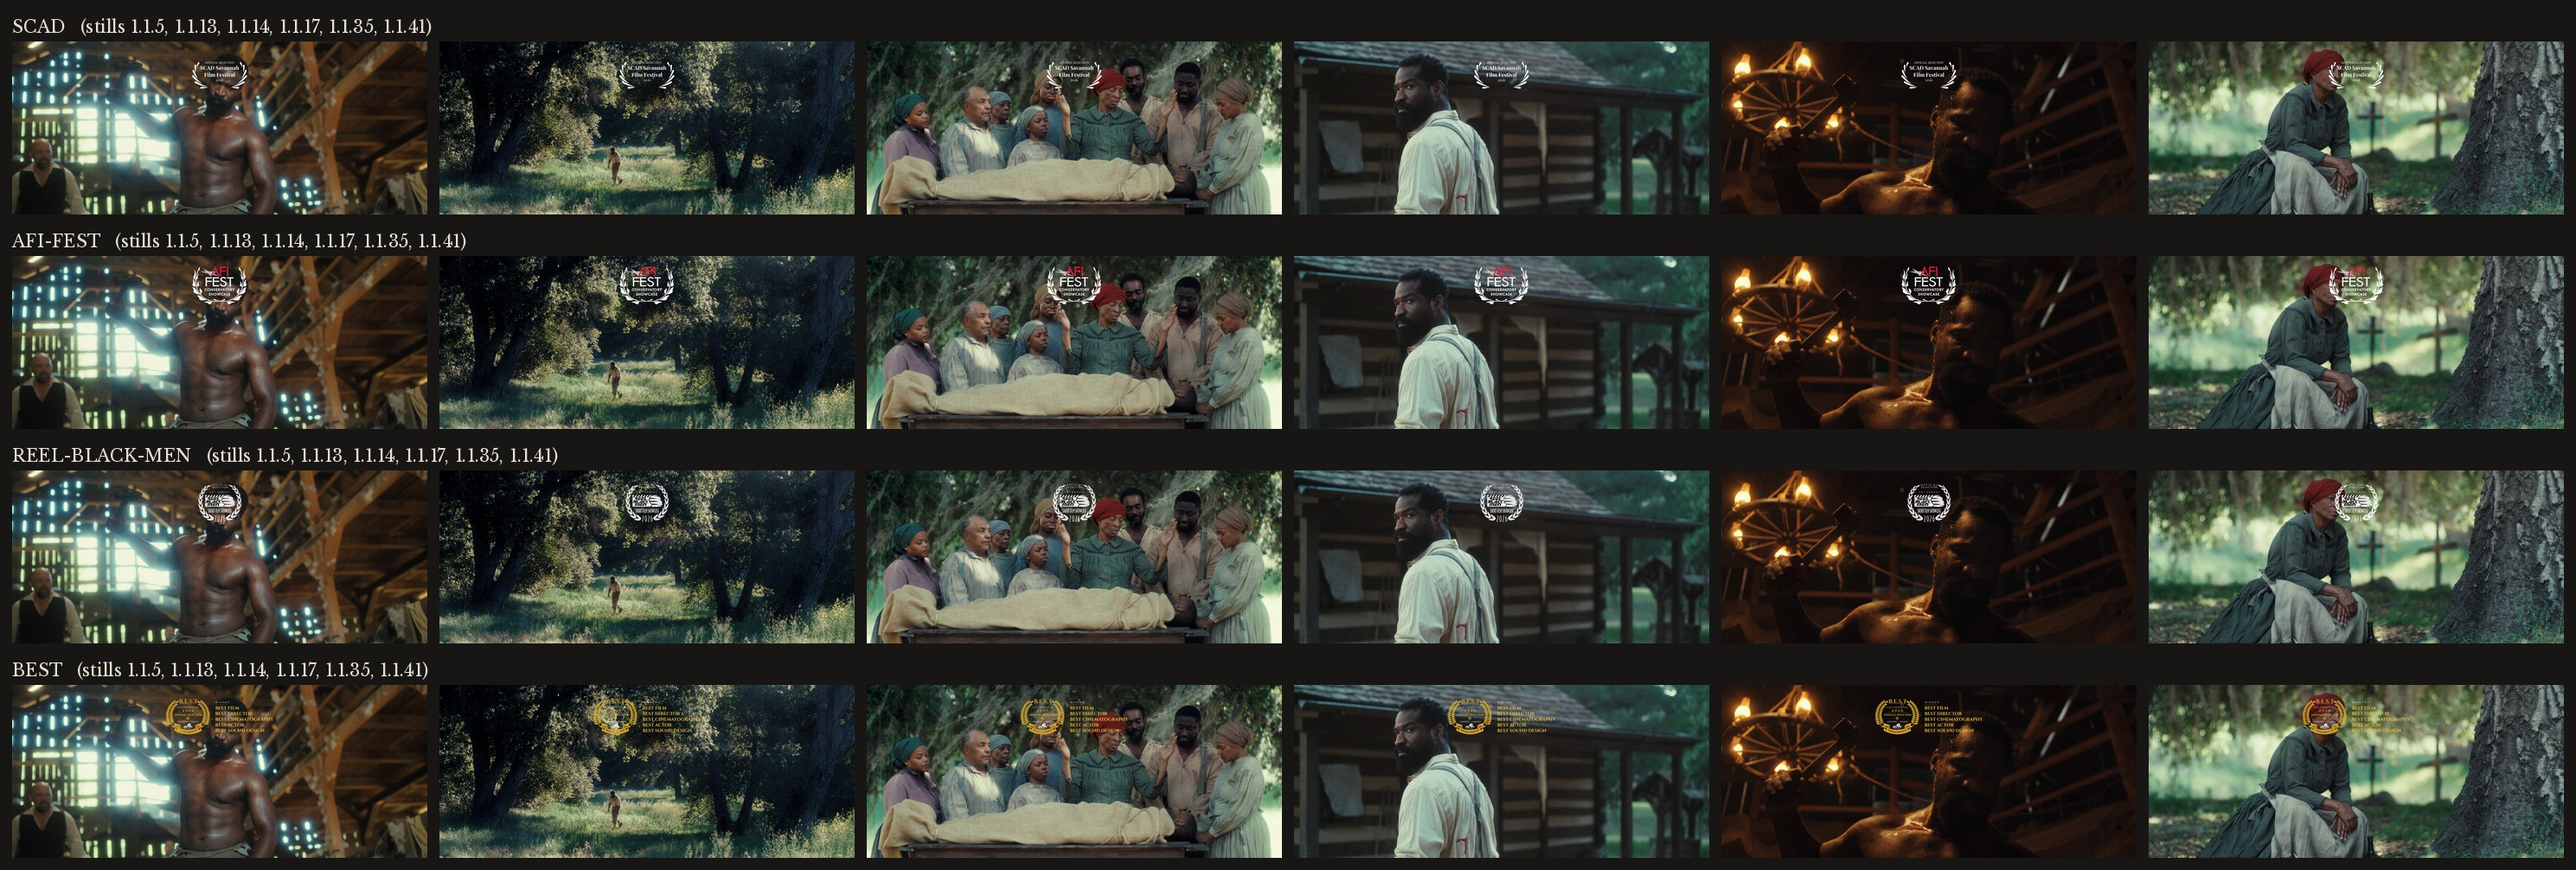
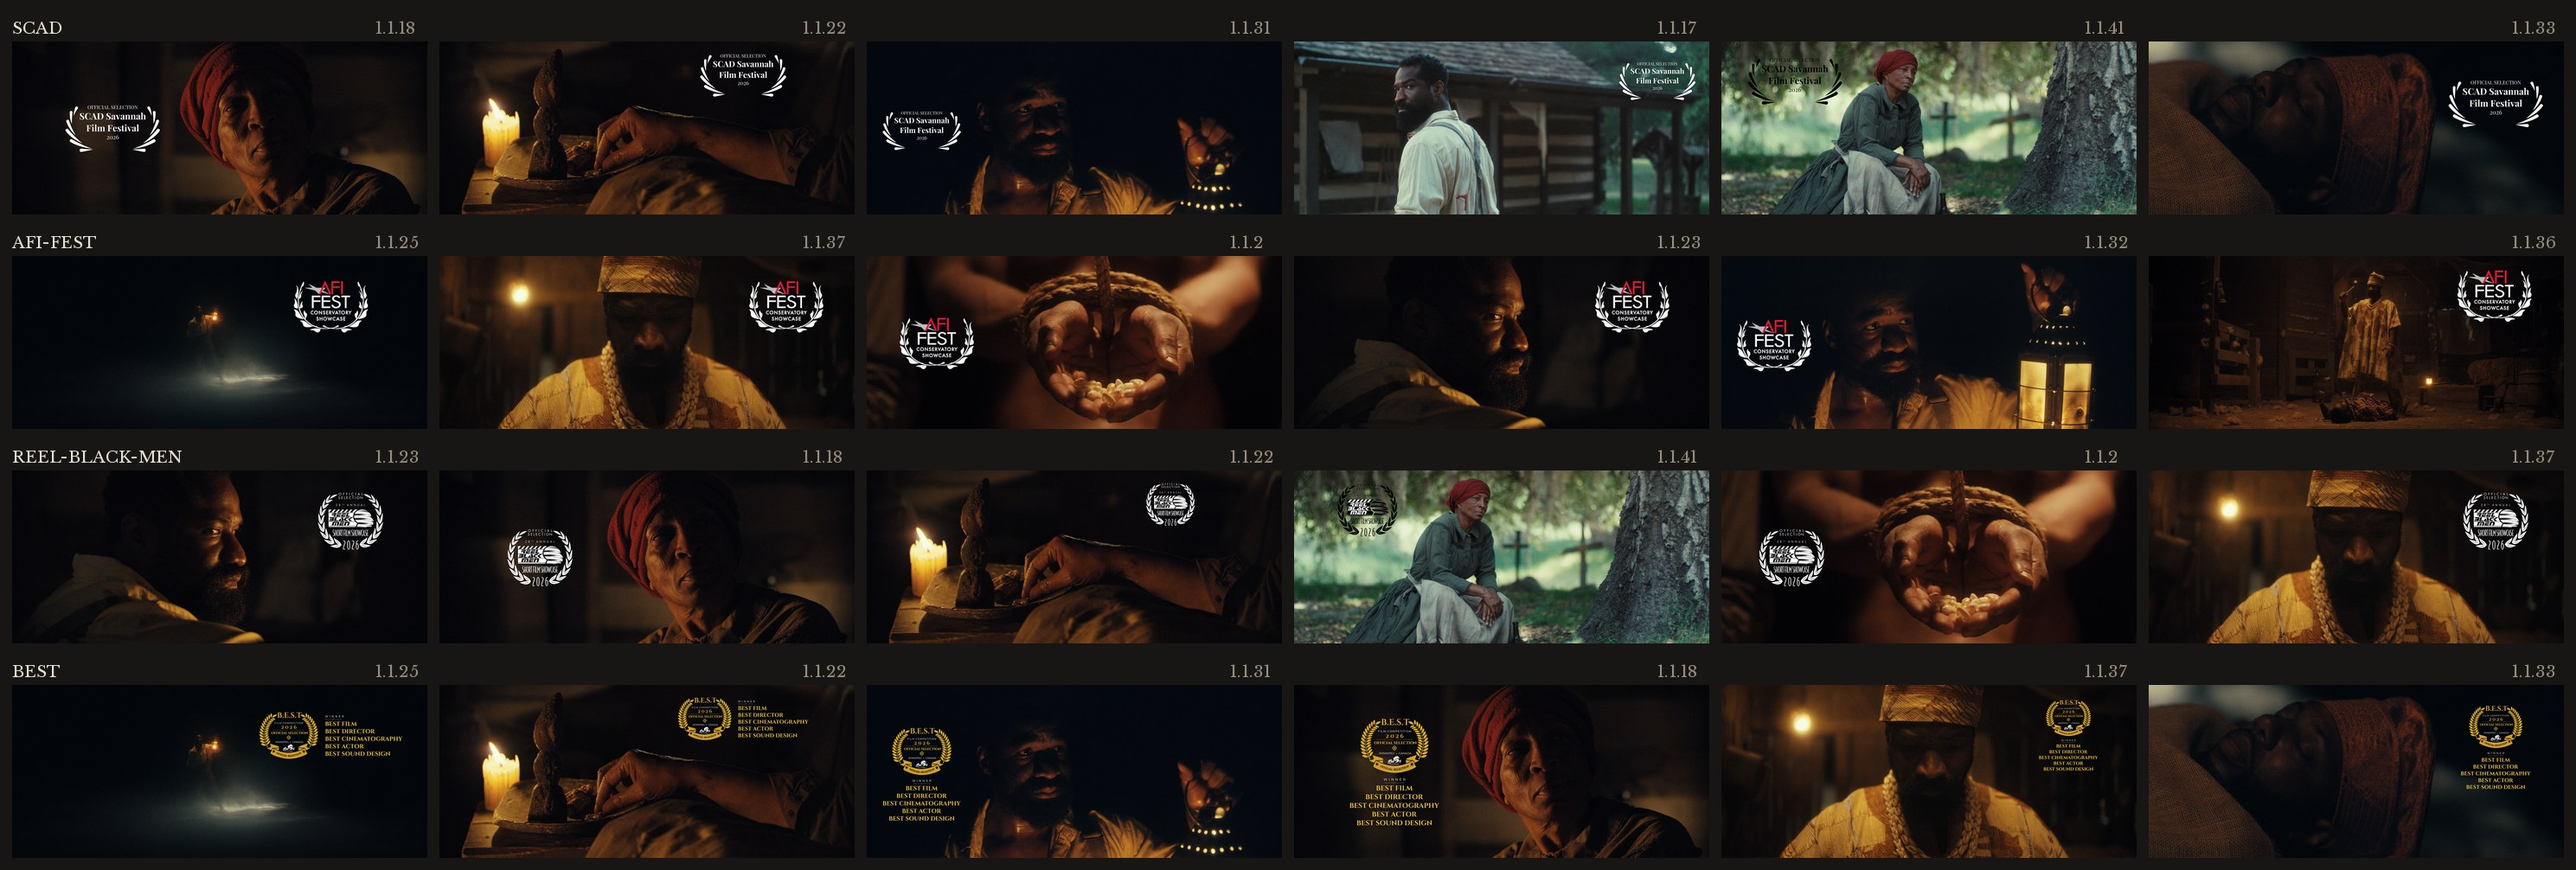
Laurel stills placed per frame in clean areas (stacked B.E.S.T. build for tall spaces); page-2 options v2 with title and photo locked and Luke's size limits enforced; handoff-163

diff --git a/tools/laurel-stills.py b/tools/laurel-stills.py
@@ -1,43 +1,110 @@
 #!/usr/bin/env python3
-"""Composite a festival laurel onto 2.39:1 frames from press/assets/STILLS.
+"""Festival laurels on 2.39:1 frames from press/assets/STILLS, placed by hand into each frame's clean area.
 
-Usage: venv/bin/python tools/laurel-stills.py [still numbers...]   (default: 5 13 14 17 35 41)
-Writes press/assets/derived/laurel-stills/<FEST>/KOM-<FEST>-still-1.1.N.jpg (1920x803) and a contact sheet.
-The laurel sits top-centre (6% down, ~22% of the frame height, like a festival's own social still);
-the light or dark version is chosen by the mean luminance under it (dark marks only above 140/255)."""
-import os, sys
-from PIL import Image, ImageDraw, ImageFont, ImageStat
+Each frame below has a box (x0, y0, x1, y1, px on the 1920x803 picture) drawn round its negative space,
+chosen by eye from a gridded sheet of the frame. The laurel, trimmed to its ink, is fitted inside the box
+(8% padding, capped at a share of the frame height) and centred in it. White or gold on dark frames, black
+where the box is light. White marks get a faint blurred shadow so leaves hold on textured ground.
+
+B.E.S.T. comes in two shapes: the wide winner laurel (wreath + WINNER + awards) for wide boxes, and a
+stacked build (wreath over the awards) for tall boxes.
+
+Usage: venv/bin/python tools/laurel-stills.py
+Writes press/assets/derived/laurel-stills/<FEST>/KOM-<FEST>-still-1.1.N.jpg (1920x803) and a contact sheet."""
+import os
+from PIL import Image, ImageDraw, ImageFont, ImageFilter
 D = "press/assets/derived/laurels"; OUT = "press/assets/derived/laurel-stills"
 STILL = lambda n: f"press/assets/STILLS/Still 2026-09-08 210640_1.1.{n}.png"
-TOP, BOT = 138, 941   # the picture rows inside the 1920x1080 letterboxed export
-def rgba(p): return Image.open(p).convert("RGBA")
-FESTS = {
-  "SCAD":           {"light": f"{D}/SCAD-2026-official-selection-white.png", "dark": f"{D}/SCAD-2026-official-selection-black.png", "h": 0.22},
-  "AFI-FEST":       {"light": f"{D}/AFI-FEST-conservatory-showcase-white-x4.png", "dark": f"{D}/AFI-FEST-conservatory-showcase-black-x4.png", "h": 0.22},
-  "REEL-BLACK-MEN": {"light": f"{D}/RBM-2026-official-selection-white.png", "dark": f"{D}/RBM-2026-official-selection-black.png", "h": 0.26},
-  "BEST":           {"light": f"{D}/BEST-2026-winner_gold.png", "dark": f"{D}/BEST-2026-winner_black.png", "h": 0.25},
+TOP, BOT = 138, 941
+
+def trim(p):
+    im = Image.open(p).convert("RGBA"); return im.crop(im.split()[-1].getbbox())
+
+def stacked(p):
+    """Wreath (ink columns up to 1819) over the award text (from 2014); every text line centred under it."""
+    import numpy as np
+    im = Image.open(p).convert("RGBA")
+    wreath = im.crop((0, 0, 1900, im.height)); wreath = wreath.crop(wreath.split()[-1].getbbox())
+    text = im.crop((1950, 0, im.width, im.height)); text = text.crop(text.split()[-1].getbbox())
+    rows = np.array(text.split()[-1]).max(axis=1) > 0; lines = []; start = None
+    for y, on in enumerate(list(rows) + [False]):
+        if on and start is None: start = y
+        if not on and start is not None: lines.append((start, y)); start = None
+    parts = []
+    for a, b in lines:
+        ln = text.crop((0, a, text.width, b)); ln = ln.crop(ln.split()[-1].getbbox()); parts.append((a, ln))
+    W = max(wreath.width, max(ln.width for _, ln in parts)); gap = int(wreath.height * 0.10)
+    H = wreath.height + gap + (lines[-1][1] - lines[0][0])
+    out = Image.new("RGBA", (W, H), (0, 0, 0, 0)); out.paste(wreath, ((W - wreath.width) // 2, 0))
+    for a, ln in parts: out.paste(ln, ((W - ln.width) // 2, wreath.height + gap + a - lines[0][0]))
+    return out
+
+L = {
+  "SCAD":  {"light": trim(f"{D}/SCAD-2026-official-selection-white.png"), "dark": trim(f"{D}/SCAD-2026-official-selection-black.png")},
+  "AFI-FEST": {"light": trim(f"{D}/AFI-FEST-conservatory-showcase-white-x4.png"), "dark": trim(f"{D}/AFI-FEST-conservatory-showcase-black-x4.png")},
+  "REEL-BLACK-MEN": {"light": trim(f"{D}/RBM-2026-official-selection-white.png"), "dark": trim(f"{D}/RBM-2026-official-selection-black.png")},
+  "BEST-wide": {"light": trim(f"{D}/BEST-2026-winner_gold.png"), "dark": trim(f"{D}/BEST-2026-winner_black.png")},
+  "BEST-stack": {"light": stacked(f"{D}/BEST-2026-winner_gold.png"), "dark": stacked(f"{D}/BEST-2026-winner_black.png")},
 }
-def main(stills):
+# Clean areas, by eye (x0, y0, x1, y1) on the 1920x803 picture, and what is there.
+BOX = {
+  2:  ((50, 150, 600, 660), "left third: the dark beside the bound hands"),
+  17: ((1470, 40, 1890, 330), "top right: soft tree bokeh past the cabin roof"),
+  18: ((70, 110, 860, 700), "left half: the dark cabin wall behind the Elder"),
+  22: ((960, 40, 1850, 275), "top right: dark above the hand and the shrine"),
+  23: ((1240, 40, 1890, 430), "top right: the dark wall past Mace's face"),
+  25: ((1080, 60, 1870, 410), "upper right: night, away from the lantern"),
+  31: ((40, 70, 470, 760), "left quarter: black beside the face"),
+  32: ((40, 70, 450, 760), "left quarter: black beside the face"),
+  33: ((1330, 60, 1880, 520), "right: the dark blue past the head wrap"),
+  36: ((1320, 40, 1880, 330), "top right: the dark barn wall"),
+  37: ((1330, 40, 1880, 430), "top right: dark beyond the head wrap"),
+  41: ((40, 40, 640, 330), "top left: pale leaf bokeh above the Elder (black laurel)"),
+}
+DARK_ON = {41}           # boxes too light for white marks
+PLAN = {
+  "SCAD":           [(18, "SCAD"), (22, "SCAD"), (31, "SCAD"), (17, "SCAD"), (41, "SCAD"), (33, "SCAD")],
+  "AFI-FEST":       [(25, "AFI-FEST"), (37, "AFI-FEST"), (2, "AFI-FEST"), (23, "AFI-FEST"), (32, "AFI-FEST"), (36, "AFI-FEST")],
+  "REEL-BLACK-MEN": [(23, "REEL-BLACK-MEN"), (18, "REEL-BLACK-MEN"), (22, "REEL-BLACK-MEN"), (41, "REEL-BLACK-MEN"), (2, "REEL-BLACK-MEN"), (37, "REEL-BLACK-MEN")],
+  "BEST":           [(25, "BEST-wide"), (22, "BEST-wide"), (31, "BEST-stack"), (18, "BEST-stack"), (37, "BEST-stack"), (33, "BEST-stack")],
+}
+MAXH = {"SCAD": 0.27, "AFI-FEST": 0.30, "REEL-BLACK-MEN": 0.33, "BEST-wide": 0.36, "BEST-stack": 0.62}
+
+def place(fr, lau, box, maxh, light):
+    x0, y0, x1, y1 = box; bw, bh = x1 - x0, y1 - y0; pw, ph = bw * 0.84, bh * 0.84
+    s = min(pw / lau.width, ph / lau.height, maxh * fr.height / lau.height)
+    w, h = int(lau.width * s), int(lau.height * s); l = lau.resize((w, h), Image.LANCZOS)
+    x, y = x0 + (bw - w) // 2, y0 + (bh - h) // 2
+    base = fr.convert("RGBA")
+    if light:
+        sh = Image.new("RGBA", fr.size, (0, 0, 0, 0)); a = l.split()[-1].point(lambda v: int(v * 0.45))
+        sh.paste(Image.new("RGBA", (w, h), (0, 0, 0, 255)), (x, y + max(2, h // 120)), a)
+        base = Image.alpha_composite(base, sh.filter(ImageFilter.GaussianBlur(max(3, h // 60))))
+    layer = Image.new("RGBA", fr.size, (0, 0, 0, 0)); layer.paste(l, (x, y))
+    return Image.alpha_composite(base, layer).convert("RGB"), (x, y, w, h)
+
+def main():
     sheets = {}
-    for fest, cfg in FESTS.items():
-        os.makedirs(f"{OUT}/{fest}", exist_ok=True); tiles = []
-        for n in stills:
-            fr = Image.open(STILL(n)).convert("RGB"); fr = fr.crop((0, TOP, fr.width, BOT)); W, H = fr.size
-            lh = int(H * cfg["h"]); probe = rgba(cfg["light"]); lw = int(probe.width * lh / probe.height)
-            x, y = (W - lw) // 2, int(H * 0.06); gx, gy = int(lw * .08), int(lh * .08)
-            lum = ImageStat.Stat(fr.crop((max(0, x-gx), max(0, y-gy), min(W, x+lw+gx), min(H, y+lh+gy))).convert("L")).mean[0]
-            lau = rgba(cfg["dark" if lum > 140 else "light"]); lw = int(lau.width * lh / lau.height); x = (W - lw) // 2
-            layer = Image.new("RGBA", fr.size, (0, 0, 0, 0)); layer.paste(lau.resize((lw, lh), Image.LANCZOS), (x, y))
-            out = Image.alpha_composite(fr.convert("RGBA"), layer).convert("RGB")
-            out.save(f"{OUT}/{fest}/KOM-{fest}-still-1.1.{n}.jpg", quality=92, subsampling=0); tiles.append(out)
-            print(fest, n, f"lum {lum:.0f}", "dark" if lum > 140 else "light", f"{lw}x{lh}")
+    for fest, items in PLAN.items():
+        os.makedirs(f"{OUT}/{fest}", exist_ok=True)
+        for old in os.listdir(f"{OUT}/{fest}"): os.remove(f"{OUT}/{fest}/{old}")
+        tiles = []
+        for n, key in items:
+            fr = Image.open(STILL(n)).convert("RGB").crop((0, TOP, 1920, BOT))
+            light = n not in DARK_ON
+            out, geo = place(fr, L[key]["light" if light else "dark"], BOX[n][0], MAXH[key], light)
+            out.save(f"{OUT}/{fest}/KOM-{fest}-still-1.1.{n}.jpg", quality=92, subsampling=0)
+            tiles.append((n, out)); print(fest, f"1.1.{n}", key, "light" if light else "dark", geo, "-", BOX[n][1])
         sheets[fest] = tiles
-    tw = 480; th = int(tw * 803 / 1920); pad = 14; lab = 34; n = len(stills)
-    sheet = Image.new("RGB", (n*tw + (n+1)*pad, 4*(th+lab) + 5*pad), (24, 22, 20)); dr = ImageDraw.Draw(sheet)
-    font = ImageFont.truetype("press/assets/derived/fonts/libre-baskerville/LibreBaskerville-Regular.ttf", 20)
+    tw = 480; th = int(tw * 803 / 1920); pad = 14; lab = 34
+    sheet = Image.new("RGB", (6 * tw + 7 * pad, 4 * (th + lab) + 5 * pad), (24, 22, 20)); dr = ImageDraw.Draw(sheet)
+    font = ImageFont.truetype("press/assets/derived/fonts/libre-baskerville/LibreBaskerville-Regular.ttf", 19)
     for r, (fest, tiles) in enumerate(sheets.items()):
-        y0 = pad + r*(th+lab+pad); dr.text((pad, y0 + 4), f"{fest}   (stills 1.1.{', 1.1.'.join(map(str, stills))})", fill=(230, 224, 210), font=font)
-        for c, t in enumerate(tiles): sheet.paste(t.resize((tw, th), Image.LANCZOS), (pad + c*(tw+pad), y0 + lab))
+        y0 = pad + r * (th + lab + pad); dr.text((pad, y0 + 6), fest, fill=(230, 224, 210), font=font)
+        for c, (n, t) in enumerate(tiles):
+            x = pad + c * (tw + pad); sheet.paste(t.resize((tw, th), Image.LANCZOS), (x, y0 + lab))
+            dr.text((x + tw - 60, y0 + 6), f"1.1.{n}", fill=(150, 140, 125), font=font)
     sheet.save(f"{OUT}/contact-sheet-laurel-stills.jpg", quality=88)
+
 if __name__ == "__main__":
-    main([int(a) for a in sys.argv[1:]] or [5, 13, 14, 17, 35, 41])
+    main()

diff --git a/tools/laurel-page-options.py b/tools/laurel-page-options.py
@@ -1,0 +1,63 @@
+#!/usr/bin/env python3
+"""Mock up page-2 laurel arrangements with the title, rule, photo and label locked where they are in Canva (2026-10-11).
+Usage: venv/bin/python tools/laurel-page-options.py OUTDIR. Prints each laurel ink box (x, y, w, h px on the 1728x2304 page)."""
+import sys
+from PIL import Image, ImageDraw, ImageFont
+OUT = sys.argv[1]; D = "press/assets/derived/laurels"
+W, H = 1728, 2304; G = (11, 8, 6); F = "press/assets/derived/fonts/libre-baskerville/LibreBaskerville-Regular.ttf"
+def trim(p): im = Image.open(p).convert("RGBA"); return im.crop(im.split()[-1].getbbox())
+S = {k: trim(f"{D}/{f}") for k, f in [("ABFF", "ABFF-2026-official-selection-white.png"), ("MVAAFF", "MVAAFF-2026-official-selection-white.png"),
+     ("SCAD", "SCAD-2026-official-selection-white.png"), ("AFI", "AFI-FEST-conservatory-showcase-white-x4.png"), ("RBM", "RBM-2026-official-selection-white.png")]}
+WIN = trim(f"{D}/BEST-2026-winner_gold.png")
+MIN_H = 187; MAX_WIN = 1306
+still = Image.open(f"{D}/still-1.1.13-feather22.jpg").convert("RGB")
+still = still.resize((int(still.width * 860 / still.height), 860), Image.LANCZOS); x0 = (still.width - W) // 2; still = still.crop((x0, 0, x0 + W, 860))
+def tracked(dr, t, y, size, span, col):
+    font = ImageFont.truetype(F, size); adv = span / len(t); x = (W - span) / 2 + adv / 2
+    for ch in t: w = dr.textlength(ch, font=font); dr.text((x - w / 2, y), ch, fill=col, font=font); x += adv
+def base():
+    img = Image.new("RGBA", (W, H), G + (255,)); dr = ImageDraw.Draw(img)
+    tracked(dr, "AWARDS & SELECTIONS", 249, 53, 1460, (236, 230, 216)); dr.line([(706, 339), (1021, 339)], fill=(140, 120, 80), width=2)
+    img.paste(still, (0, 429)); tracked(dr, "KILLER OF MEN", 1314, 22, 300, (150, 140, 125)); return img
+def sized(it):
+    if it[0] == "WIN": im = WIN; w = it[2]; return im, int(w), int(im.height * w / im.width)
+    im = S[it[0]]; h = it[1]; return im, int(im.width * h / im.height), int(h)
+def render(rows, row_gap):
+    built = []
+    for items, gap in rows:
+        r = [sized(it) for it in items]
+        for im, w, h in r:
+            assert im is WIN or h >= MIN_H; assert im is not WIN or w < MAX_WIN
+        built.append((r, gap, sum(w for _, w, _ in r) + gap * (len(r) - 1), max(h for _, _, h in r)))
+    total = sum(b[3] for b in built) + row_gap * (len(built) - 1)
+    top, bottom = 1338, 2304 - 150
+    assert total <= bottom - top - 40, f"group too tall: {total}"
+    y = top + (bottom - top - total) // 2 + 10; img = base(); geo = []
+    for r, gap, rw, rh in built:
+        assert rw <= W - 80, f"row too wide: {rw}"
+        x = (W - rw) / 2
+        for im, w, h in r:
+            yy = int(y + (rh - h) / 2); lay = Image.new("RGBA", (W, H), (0, 0, 0, 0)); lay.paste(im.resize((w, h), Image.LANCZOS), (int(x), yy)); img.alpha_composite(lay)
+            geo.append((int(x), yy, w, h)); x += w + gap
+        y += rh + row_gap
+    return img.convert("RGB"), total, geo
+FIVE = lambda h, g: ([("ABFF", h), ("MVAAFF", h), ("SCAD", h), ("AFI", h), ("RBM", h * 1.08)], g)
+OPTS = {
+ "1  five across, winner below": ([FIVE(187, 28), ([("WIN", None, 980)], 0)], 70),
+ "2  five across, larger winner below": ([FIVE(187, 28), ([("WIN", None, 1220)], 0)], 60),
+ "3  winner first, five across below": ([([("WIN", None, 1120)], 0), FIVE(187, 28)], 70),
+ "4  three over two, winner below": ([([("ABFF", 200), ("MVAAFF", 200), ("SCAD", 200)], 70), ([("AFI", 200), ("RBM", 216)], 80), ([("WIN", None, 800)], 0)], 36),
+ "5  winner first, then three over two": ([([("WIN", None, 860)], 0), ([("ABFF", 190), ("MVAAFF", 190), ("SCAD", 190)], 70), ([("AFI", 190), ("RBM", 205)], 80)], 36),
+ "6  three across; AFI, winner, Reel Black Men": ([([("ABFF", 220), ("MVAAFF", 220), ("SCAD", 220)], 80), ([("AFI", 200), ("WIN", None, 800), ("RBM", 216)], 60)], 70),
+ "7  three, the winner, two": ([([("ABFF", 187), ("MVAAFF", 187), ("SCAD", 187)], 70), ([("WIN", None, 900)], 0), ([("AFI", 187), ("RBM", 202)], 80)], 36),
+}
+tiles = []
+for name, (rows, gap) in OPTS.items():
+    img, total, geo = render(rows, gap); k = name.split()[0]; img.save(f"{OUT}/option-{k}.png", optimize=True); tiles.append((name, img)); print(name, "| group", total, "| ink boxes", geo)
+tw, th, pad, lab, cols = 560, 747, 24, 44, 4
+sheet = Image.new("RGB", (cols * tw + (cols + 1) * pad, 2 * (th + lab) + 3 * pad), (30, 28, 26)); dr = ImageDraw.Draw(sheet); font = ImageFont.truetype(F, 19)
+for i, (name, img) in enumerate(tiles):
+    r, c = divmod(i, cols); x = pad + c * (tw + pad); y = pad + r * (th + lab + pad)
+    dr.text((x, y + 8), name, fill=(230, 224, 210), font=font); sheet.paste(img.resize((tw, th), Image.LANCZOS), (x, y + lab))
+dr.text((pad + 3 * (tw + pad), pad + (th + lab + pad) + 60), "Title, rule, photo and label stay where\nthey are in Canva now. Only the laurels move.\n\nSelections: never smaller than option D's\nsmall ones. Winner: always under F's.\nAll five selections matched by height.", fill=(200, 194, 180), font=font, spacing=8)
+sheet.save(f"{OUT}/contact-sheet-options.jpg", quality=88)

diff --git a/handoffs/handoff-163-epk.md b/handoffs/handoff-163-epk.md
@@ -1,0 +1,19 @@
+# handoff-163-epk — Laurel stills redone with per-frame placement; page-2 options v2 with title and photo locked
+
+## Recap (newest first)
+- Model switched to Opus 5.5 by Luke for this turn. His notes: page-2 options must keep the title and photo where they are and move only the laurels; selections no smaller than option D's small ones, winner never as big as F's. The laurel stills need real placement in clean areas of each frame.
+- **Laurel stills, redone.** `tools/laurel-stills.py` now carries a hand-drawn clean-area box for each of 12 frames, chosen from gridded sheets of 32 candidates (box and reason listed in the tool). Laurels are trimmed to their ink, fitted to the box, white or gold with a faint shadow, black on the one light frame (1.1.41, leaf bokeh). B.E.S.T. uses the wide winner laurel in wide boxes and a new stacked build (wreath over the awards, every line centred) in tall ones. Frames: SCAD 18, 22, 31, 17, 41, 33 · AFI Fest 25, 37, 2, 23, 32, 36 · Reel Black Men 23, 18, 22, 41, 2, 37 · B.E.S.T. 25, 22 (wide), 31, 18, 37, 33 (stacked). The earlier top-centre set is replaced on the Drive (`00 PRESS/LAURELS/Stills with laurels/`, 24 files + sheet).
+- **Page-2 options v2.** `tools/laurel-page-options.py` renders the page with title (249), rule (339), photo (429–1289) and label (1314) fixed; laurels trimmed to ink and matched by height; asserts the D minimum (ink 187 px) and the F maximum (winner ink < 1306 px); group centred between the label and 150 px above the foot. Seven options in `press/proofs/laurels-options-2026-10-11b/`; the run prints every ink box. The v1 sheet (photo moved) is superseded.
+
+## Next
+1. Luke picks an option. To apply in Canva: convert each ink box to the element box (the Canva element is the full PNG, so scale by full/ink size and offset by the ink bbox), then set W/X/Y with the Ratio lock on (harness procedure of 11 Oct).
+2. Re-export after page 2 settles.
+
+---
+**Timestamp:** 2026-10-11 · **Lane:** `epk` · **Continues:** handoff-162-epk.md · **Model:** Opus 5.5 (goose turn).
+
+## Files
+- Options v2: https://github.com/Scroggdawg/kom-festival-board/blob/main/press/proofs/laurels-options-2026-10-11b/contact-sheet-options.jpg
+- Stills sheet: https://github.com/Scroggdawg/kom-festival-board/blob/main/press/assets/derived/laurel-stills/contact-sheet-laurel-stills.jpg
+- Tools: https://github.com/Scroggdawg/kom-festival-board/blob/main/tools/laurel-stills.py · https://github.com/Scroggdawg/kom-festival-board/blob/main/tools/laurel-page-options.py
+- Prior handoff: https://github.com/Scroggdawg/kom-festival-board/blob/main/handoffs/handoff-162-epk.md · This handoff: https://github.com/Scroggdawg/kom-festival-board/blob/main/handoffs/handoff-163-epk.md
